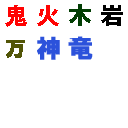
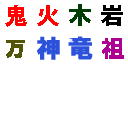
ace エディター　イベント　仏壇　追加

Changed region(s): [[0.7812, 0.2812, 0.9688, 0.4688]]

diff --git a/Solution/AceCommon/ace_define.h b/Solution/AceCommon/ace_define.h
@@ -132,10 +132,10 @@ const unsigned char OBJECT_BLOCK  = 0x80;
 const unsigned char OBJECT_ONEWAY = 0x81;
 //event
 const unsigned char OBJECT_EVENT_REDDAEMON = 0xC0;
-const unsigned char OBJECT_EVENT_FIRE = 0xC1;
-const unsigned char OBJECT_EVENT_TREE = 0xC2;
-const unsigned char OBJECT_EVENT_ROCK = 0xC3;
-const unsigned char OBJECT_EVENT_SHOP = 0xC4;
-const unsigned char OBJECT_EVENT_LAKE = 0xC5;
-const unsigned char OBJECT_EVENT_RYUGU = 0xC6;
-
+const unsigned char OBJECT_EVENT_FIRE	= 0xC1;
+const unsigned char OBJECT_EVENT_TREE	= 0xC2;
+const unsigned char OBJECT_EVENT_ROCK	= 0xC3;
+const unsigned char OBJECT_EVENT_SHOP	= 0xC4;
+const unsigned char OBJECT_EVENT_LAKE	= 0xC5;
+const unsigned char OBJECT_EVENT_RYUGU	= 0xC6;
+const unsigned char OBJECT_EVENT_CALL	= 0xC7;

diff --git a/Solution/AceEditor/ObjectMenu.cpp b/Solution/AceEditor/ObjectMenu.cpp
@@ -356,6 +356,9 @@ unsigned char ObjectMenu::getEvent( int idx ) const {
 	case 6:
 		result = OBJECT_EVENT_RYUGU;
 		break;
+	case 7:
+		result = OBJECT_EVENT_CALL;
+		break;
 	default:
 		result = OBJECT_NONE;
 		break;
